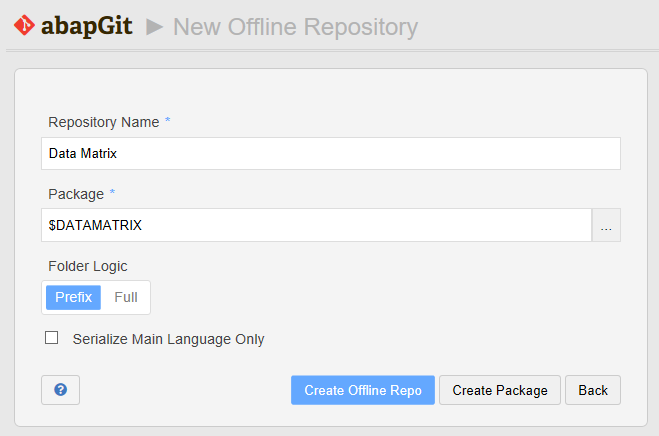
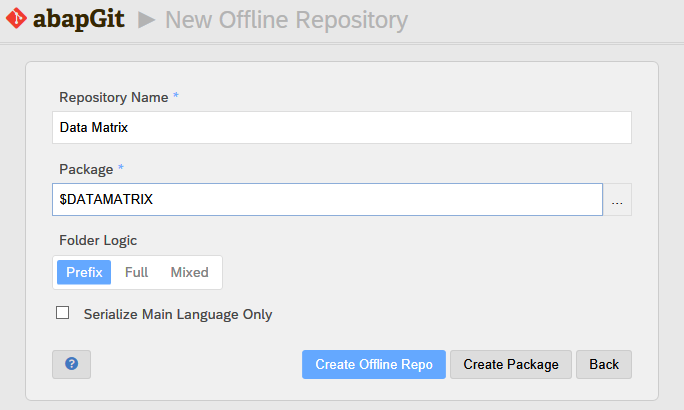
Repo settings: folder logic "mixed" (#26)
* Repo settings: folder logic "mixed"

* Update settings-dot-abapgit.md

* Update screenshots

diff --git a/docs/settings-dot-abapgit.md b/docs/settings-dot-abapgit.md
@@ -53,22 +53,34 @@ The Git repository folder that defines the root folder where deserialization sta
 
 ### Folder Logic
 
-abapGit follows two folder logics: "Prefix" and "Full".
+abapGit follows three folder logics: "Prefix", "Full", and "Mixed".
 
 #### Prefix
 
 A package name must contain its parent package name as a prefix. Examples:
 
-Valid prefix:
-* ZFOO
-  * **ZFOO**_BAR
-    * **ZFOO_BAR**_QUX
+Valid package prefix:
 
-will produce folder structure /bar/qux/
+```
+ZFOO
+  ZFOO_BAR
+    ZFOO_BAR_QUX
+```
 
-Invalid prefix:
-* ZFOO
-  * ZBAR
+This will produce the following folder structure:
+
+```
+/src
+/src/bar
+/src/bar/qux
+```
+
+Invalid package prefix:
+
+```
+ZFOO
+  ZBAR
+```
 
 The folder logic PREFIX allows to install a repository into a different parent package (in different systems). This can even be local packages (`$*`), in which case no transport order is required.
 
@@ -76,12 +88,43 @@ The folder logic PREFIX allows to install a repository into a different parent p
 
 Any package name is accepted.
 
-* ZSOMETHING
-  * ZHELLO
+```
+ZBASE
+  ZSOMETHING
+    ZHELLO
+```
 
-will produce folder structure /zsomething/zhello/
+This will produce the following folder structure:
+
+```
+/src
+/src/zsomething
+/src/zsomething/zhello
+```
 
 The folder logic FULL forces the installation of a repository into packages with exactly the same name. Note that this can be problematic for contributors who use a system where specific prefixes for the package names are to be used.
+
+#### Mixed
+
+The folder logic MIXED combines PREFIX and FULL. The root package name will be used as prefix for all sub-packages but the package names are not concatenated recursively. This will allow to use significantly logic package names. 
+
+Example package hierarchy:
+
+```
+ZBASE
+  ZBASE_ZFOO
+    ZBASE_ZBAR
+      ZBASE_ZSUB_PACK_WITH_LONG_NAME
+```
+
+This will produce the following folder structure:
+
+```
+/src
+/src/zfoo
+/src/zfoo/zbar
+/src/zfoo/zbar/zsub_pack_with_long_name
+```
 
 ### Ignore Files
 
